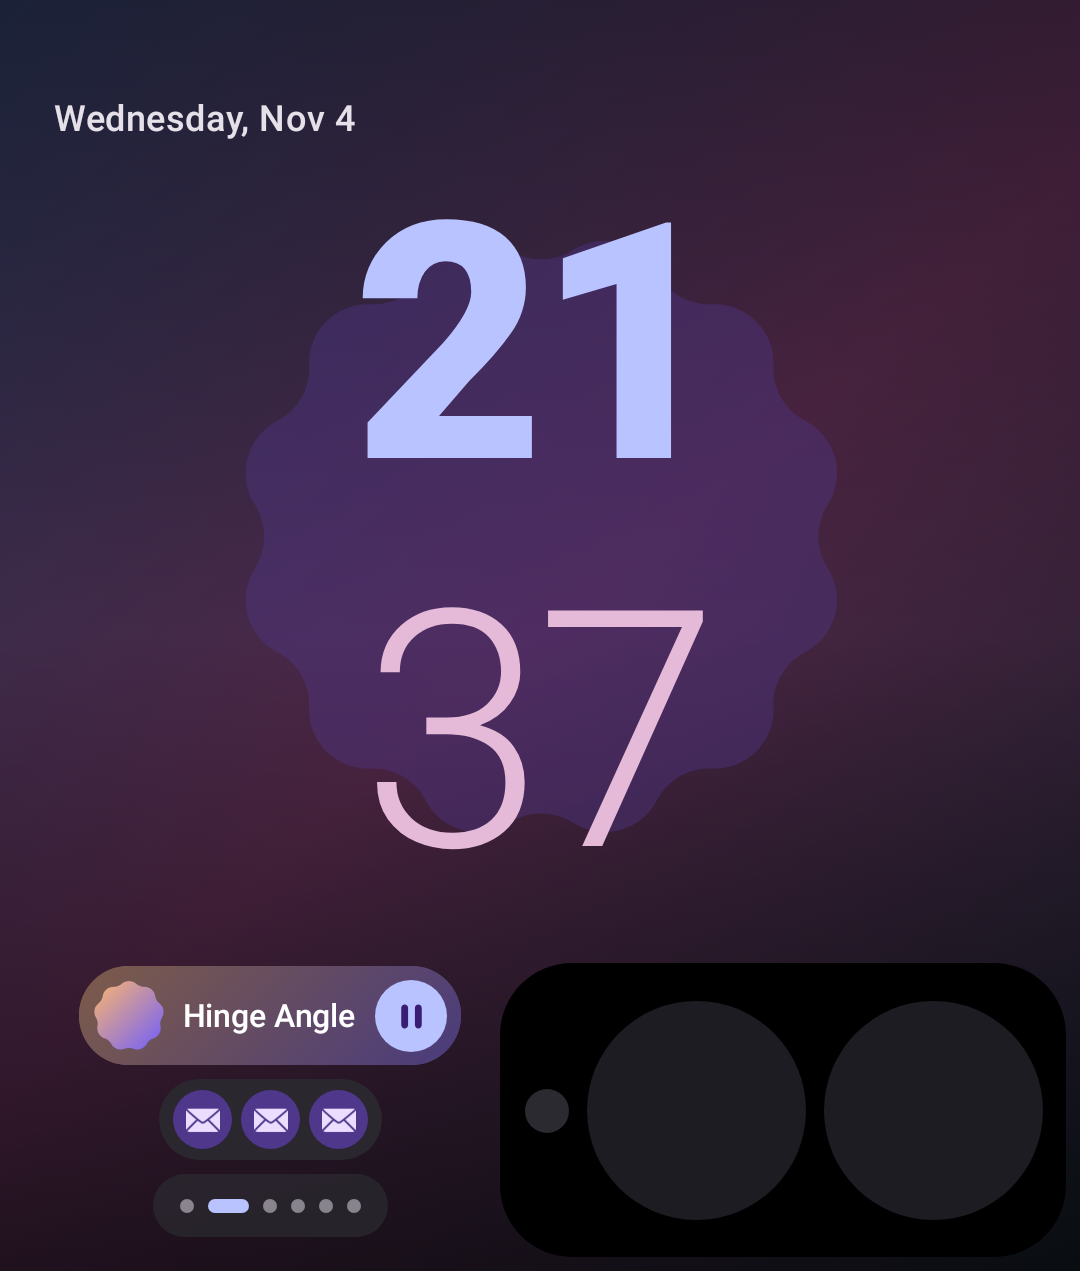
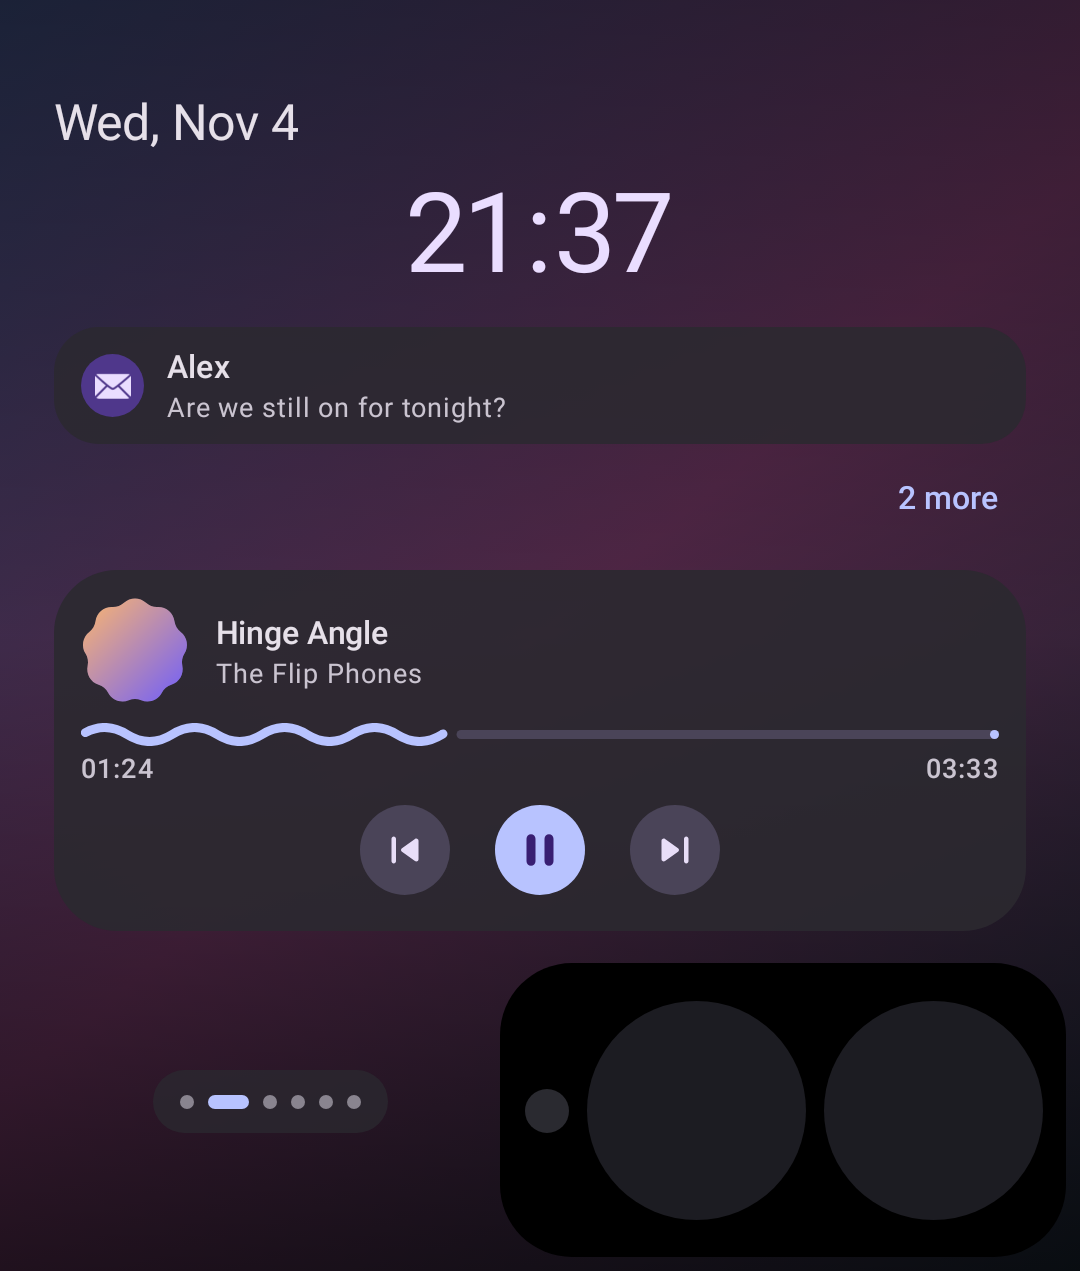
test: screenshots for both Home and notification modes and settings
Adds Home in clock & dock mode, the detailed notifications page, and the
settings main screen and Look & style screen rendered from the real
SettingsActivity on the inner screen size.

diff --git a/app/src/test/java/com/tuki/flipslop/ui/SettingsScreenshotTest.kt b/app/src/test/java/com/tuki/flipslop/ui/SettingsScreenshotTest.kt
@@ -1,0 +1,43 @@
+package com.tuki.flipslop.ui
+
+import androidx.compose.ui.test.junit4.createAndroidComposeRule
+import androidx.compose.ui.test.onNodeWithText
+import androidx.compose.ui.test.onRoot
+import androidx.compose.ui.test.performClick
+import androidx.compose.ui.test.performScrollTo
+import com.github.takahirom.roborazzi.captureRoboImage
+import com.tuki.flipslop.ui.settings.SettingsActivity
+import org.junit.Rule
+import org.junit.Test
+import org.junit.runner.RunWith
+import org.robolectric.RobolectricTestRunner
+import org.robolectric.annotation.Config
+import org.robolectric.annotation.GraphicsMode
+
+/** The settings app on the inner screen (1080x2640 @ 420dpi = 411x1006 dp). */
+@RunWith(RobolectricTestRunner::class)
+@GraphicsMode(GraphicsMode.Mode.NATIVE)
+@Config(sdk = [36], qualifiers = "w411dp-h1006dp-port-420dpi")
+class SettingsScreenshotTest {
+
+    @get:Rule
+    val compose = createAndroidComposeRule<SettingsActivity>()
+
+    @Test
+    fun categories() {
+        compose.mainClock.autoAdvance = false
+        compose.mainClock.advanceTimeBy(1_500)
+        compose.onNodeWithText("Look & style").performScrollTo()
+        compose.mainClock.advanceTimeBy(500)
+        compose.onRoot().captureRoboImage("screenshots/settings_main.png")
+    }
+
+    @Test
+    fun style() {
+        compose.mainClock.autoAdvance = false
+        compose.mainClock.advanceTimeBy(1_500)
+        compose.onNodeWithText("Look & style").performScrollTo().performClick()
+        compose.mainClock.advanceTimeBy(1_500)
+        compose.onRoot().captureRoboImage("screenshots/settings_style.png")
+    }
+}

diff --git a/app/src/test/java/com/tuki/flipslop/ui/CoverScreenshotTest.kt b/app/src/test/java/com/tuki/flipslop/ui/CoverScreenshotTest.kt
@@ -27,6 +27,8 @@ import com.github.takahirom.roborazzi.captureRoboImage
 import com.tuki.flipslop.apps.AppEntry
 import com.tuki.flipslop.core.DeviceProfile
 import com.tuki.flipslop.data.CoverPage
+import com.tuki.flipslop.data.HomeStyle
+import com.tuki.flipslop.data.NotificationStyle
 import com.tuki.flipslop.data.IconShapeStyle
 import com.tuki.flipslop.media.MediaState
 import com.tuki.flipslop.notifications.CoverAction
@@ -62,7 +64,13 @@ class CoverScreenshotTest {
 
     @Test fun home() = shoot(CoverPage.HOME)
     @Test fun homeIdle() = shoot(CoverPage.HOME, idle = true, name = "home_idle")
-    @Test fun homeClassicDock() = shoot(CoverPage.HOME, docked = false, name = "home_classic")
+    @Test fun homeDock() = shoot(CoverPage.HOME, name = "home_dock") { it.copy(homeStyle = HomeStyle.DOCK) }
+    @Test fun homeClassicDock() = shoot(CoverPage.HOME, docked = false, name = "home_classic") {
+        it.copy(homeStyle = HomeStyle.DOCK)
+    }
+    @Test fun notificationsDetailed() = shoot(CoverPage.NOTIFICATIONS, name = "notifications_detailed") {
+        it.copy(notificationStyle = NotificationStyle.DETAILED)
+    }
     @Test fun locked() = shoot(CoverPage.HOME, name = "locked") { it.copy(locked = true) }
     @Test fun lockedNotifications() = shoot(CoverPage.HOME, name = "locked_notifications") {
         it.copy(locked = true, lockNotifications = true, media = null)
